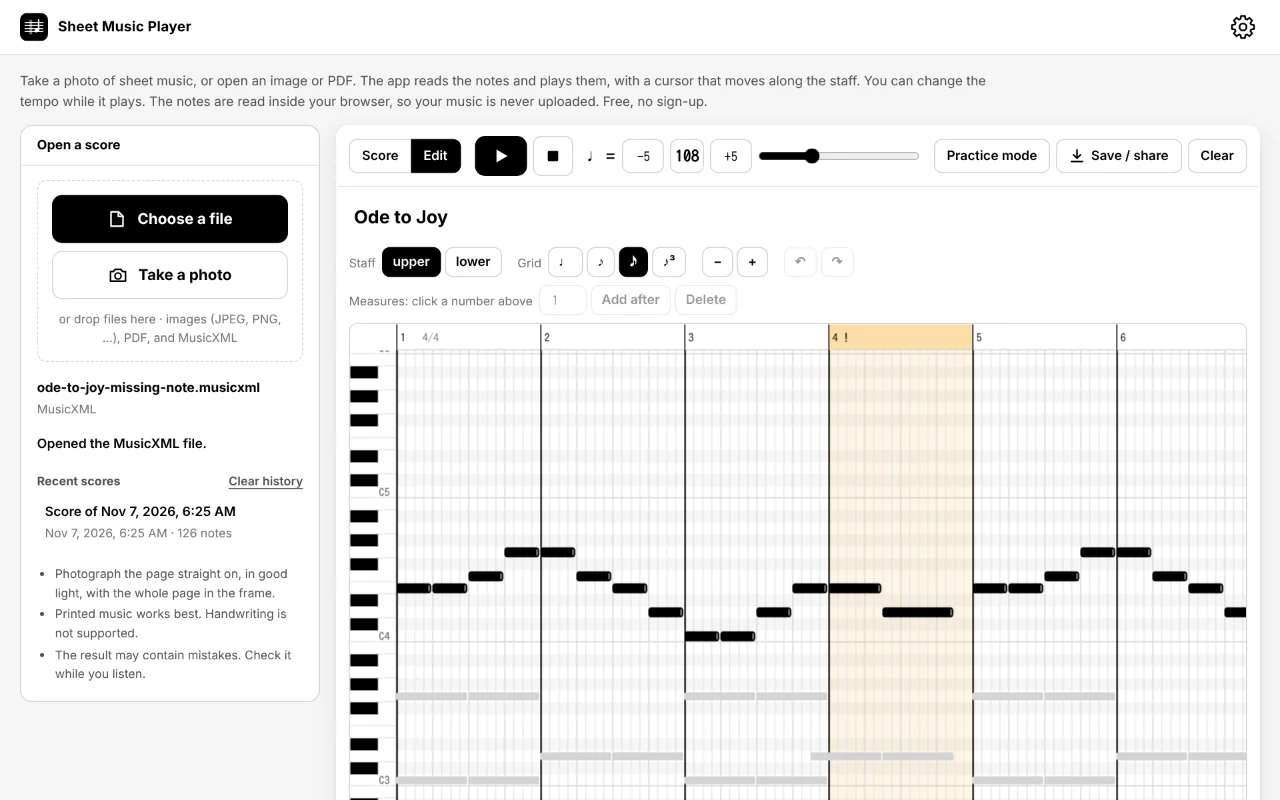
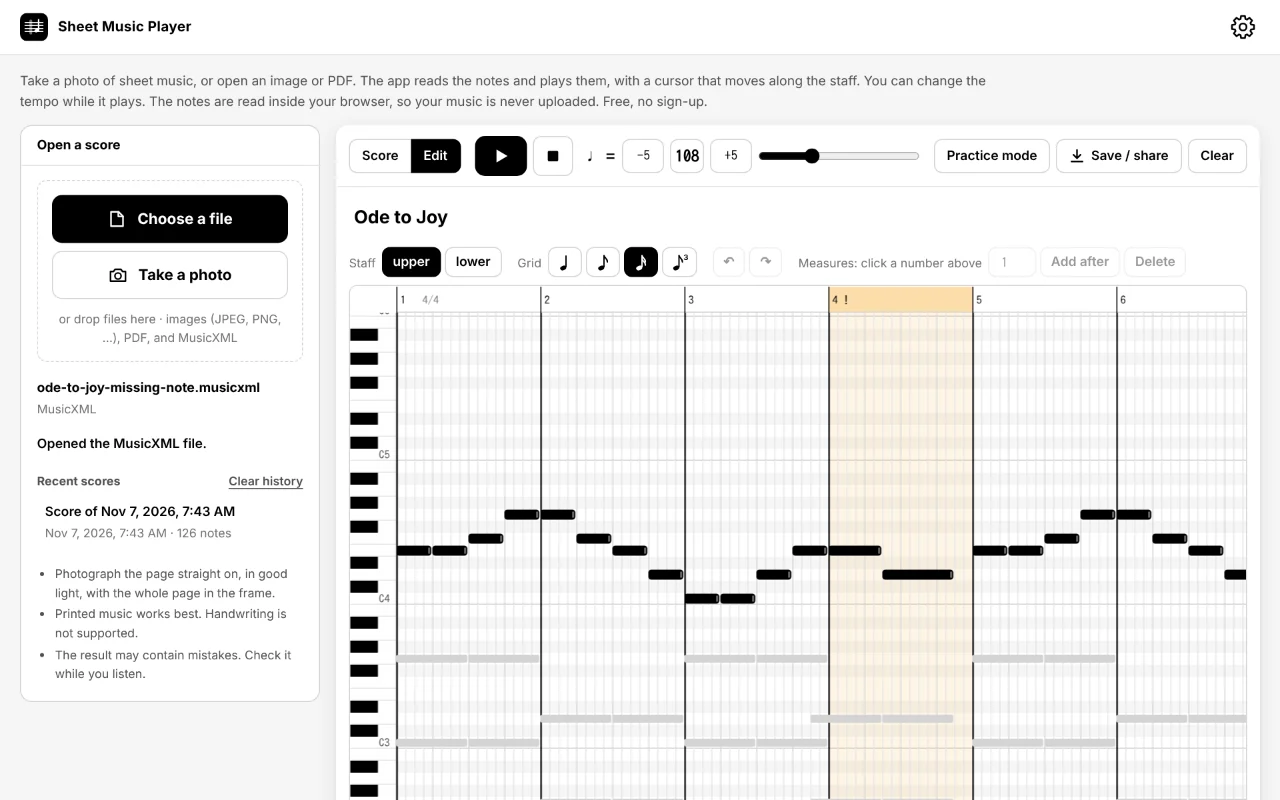
編集画面: 移調に合わせて表示・再生、スクロールとピンチ、小節の選択解除、マス目のアイコン (#21)
* スマホでは再生・停止の行だけを固定し、再生中も自由にスクロールできるようにする

- スマホ（幅 900px 以下・高さ 520px 以下）では、上部のバー・テンポ・練習モードなどはスクロールで流し、再生・停止の行だけを画面上端に固定する（PC は今までどおり 1 行のプレーヤーを固定）
- 再生中に利用者がスクロール（タッチ・ホイール・PageUp/PageDown/End・スクロールバー）したら、カーソルへの自動スクロールを止める。カーソルの行が画面に戻ってきたとき、再生ボタンを押したとき、音符をタップしたときに追従を再開
- スマホでは読み取り（MusicXML を開いたときも）が終わったら、再生ボタンの行が画面の最上部に来るようにスムーススクロール

Claude-Session: https://claude.ai/code/session_01FBcjAeARNG5Ni7mJwkqURV

* 編集モードのマス目のアイコンを SVG にする（16分音符の文字がスマホで 8分音符に化けていた）

U+1D161（16分音符）は多くのスマホのフォントになく、太い 8分音符で表示されていた。
4分・8分・16分・3連 8分を同じ大きさの SVG で描き、ガイドの編集画面の写真も撮り直した。

Claude-Session: https://claude.ai/code/session_01FBcjAeARNG5Ni7mJwkqURV

* 編集画面: 移調に合わせて表示・再生、指・マウスでのスクロールとピンチ、小節の選択をほかの所のタップで外す

- 編集画面も移調した高さで音符を表示・再生する（データは移調前のまま。表示は「元の高さ＋移調」、入力は移調分を引いて書き込む）。移調中は「移調（+2）して表示中」と出す。書き出しで移調が二重にかかっていたのを防ぐ（source() が移調を足す）
- タッチ: 空いている所をドラッグでスクロール（縦横）、2 本指のピンチで横方向に拡大・縮小、長押ししてからドラッグでまとめて選択
- マウス: ホイールでスクロール（Shift で横）、Ctrl＋ホイール・トラックパッドのピンチで拡大・縮小（キーボードの + − も）。拡大・縮小の −／+ ボタンをなくす
- 小節を選んだあと、ほかの所（音符の場所・鍵盤・ページのほかの部分）をタップすると選択を外す。再生ボタンと練習モードの操作では外さない（選んだ小節から再生するため）
- 使い方ガイド・読み取りミスの直し方の記事、編集画面の写真、CLAUDE.md を合わせて直す

Claude-Session: https://claude.ai/code/session_01FBcjAeARNG5Ni7mJwkqURV

---------

diff --git a/public/sheetmusicplayer/index.html b/public/sheetmusicplayer/index.html
@@ -254,6 +254,8 @@
     .ed-group { display: flex; flex-wrap: wrap; gap: 4px; align-items: center; }
     .ed-label { font-size: 12px; color: var(--subtle); margin-right: 2px; }
     .ed-bar .chip { height: 30px; padding: 0 10px; }
+    .ed-bar .chip:has(svg.note-ic) { padding: 0 7px; min-width: 34px; }
+    .ed-bar .chip svg.note-ic { width: auto; height: 18px; }
     .ed-bar .chip[aria-pressed="true"] { background: var(--ink); border-color: var(--ink); color: var(--paper); }
     .ed-count { width: 3.6em; height: 30px; border: 1px solid var(--line-strong); border-radius: var(--radius); background: var(--paper); color: var(--ink); font-family: var(--mono); text-align: center; }
     .ed-count:disabled { opacity: .4; }
@@ -261,6 +263,7 @@
     .ed-scroll:focus-visible { outline: 2px solid var(--ink); outline-offset: 1px; }
     .ed-canvas { position: sticky; top: 0; left: 0; display: block; touch-action: none; }
     .ed-space { pointer-events: none; }
+    .ed-tr { font-size: 12px; font-weight: 600; color: var(--cursor); }
     .ed-hint { margin: 0; font-size: 12px; color: var(--subtle); }
     .ed-hint b { color: var(--muted); font-weight: 600; }
 
@@ -602,15 +605,14 @@
           "mode.score": "Score",
           "mode.edit": "Edit",
           "ed.area": "Note editor. Drag a note to move it, drag its right edge to change its length.",
-          "ed.hint": "<b>Drag</b> a note to move it (up/down: pitch, left/right: timing) · drag its <b>right edge</b> to change the length · <b>click</b> an empty spot to add a note · <b>right-click</b> or <b>Delete</b> to remove · <b>drag</b> on empty space to select several · <b>↑↓</b> pitch (Shift: octave) · <b>←→</b> move · <b>Ctrl+Z</b> undo. Click a measure number to add or delete measures. Measures marked <b>!</b> did not add up when read; check them first.",
+          "ed.hint": "<b>Drag</b> a note to move it (up/down: pitch, left/right: timing) · drag its <b>right edge</b> to change the length · <b>click</b> an empty spot to add a note · <b>right-click</b> or <b>Delete</b> to remove · <b>drag</b> on empty space to select several · <b>↑↓</b> pitch (Shift: octave) · <b>←→</b> move · <b>Ctrl+Z</b> undo · <b>wheel</b> scroll (Shift: sideways), <b>Ctrl+wheel</b> or <b>+ −</b> zoom. On a touch screen: <b>drag</b> an empty spot to scroll, <b>pinch</b> to zoom, <b>hold</b> then drag to select several. Tap a measure number to add or delete measures (tap anywhere else to deselect it). Measures marked <b>!</b> did not add up when read; check them first.",
           "ed.track": "Staff",
           "ed.grid": "Grid",
           "ed.grid.24": "Quarter notes",
           "ed.grid.12": "Eighth notes",
           "ed.grid.6": "Sixteenth notes",
           "ed.grid.8": "Eighth-note triplets",
-          "ed.zoomIn": "Zoom in",
-          "ed.zoomOut": "Zoom out",
+          "ed.transposed": "Shown transposed ({n})",
           "ed.undo": "Undo",
           "ed.redo": "Redo",
           "ed.measPick": "Measures: click a number above",
@@ -754,15 +756,14 @@
           "mode.score": "楽譜",
           "mode.edit": "編集",
           "ed.area": "音符の編集。音符をドラッグで移動、右端をドラッグで長さを変更。",
-          "ed.hint": "音符を<b>ドラッグ</b>で移動（上下で音の高さ、左右でタイミング）・<b>右端をドラッグ</b>で長さ・空いている所を<b>クリック</b>で追加・<b>右クリック</b>か <b>Delete</b> で削除・空いている所を<b>ドラッグ</b>でまとめて選択・<b>↑↓</b> 音の高さ（Shift でオクターブ）・<b>←→</b> 移動・<b>Ctrl+Z</b> 元に戻す。上の小節番号をクリックすると、小節の追加・削除ができます。<b>!</b> の付いた小節は、読み取ったときに拍の合計が合わなかった小節です。先に確かめてください。",
+          "ed.hint": "音符を<b>ドラッグ</b>で移動（上下で音の高さ、左右でタイミング）・<b>右端をドラッグ</b>で長さ・空いている所を<b>クリック</b>で追加・<b>右クリック</b>か <b>Delete</b> で削除・空いている所を<b>ドラッグ</b>でまとめて選択・<b>↑↓</b> 音の高さ（Shift でオクターブ）・<b>←→</b> 移動・<b>Ctrl+Z</b> 元に戻す・<b>ホイール</b>でスクロール（Shift で横）、<b>Ctrl+ホイール</b>か <b>+ −</b> で拡大・縮小。タッチ操作では、空いている所を<b>ドラッグ</b>でスクロール、<b>ピンチ</b>で拡大・縮小、<b>長押し</b>してからドラッグでまとめて選択。上の小節番号をタップすると、小節の追加・削除ができます（ほかの所をタップすると選択を外します）。<b>!</b> の付いた小節は、読み取ったときに拍の合計が合わなかった小節です。先に確かめてください。",
           "ed.track": "段",
           "ed.grid": "マス目",
           "ed.grid.24": "4分音符",
           "ed.grid.12": "8分音符",
           "ed.grid.6": "16分音符",
           "ed.grid.8": "3連8分音符",
-          "ed.zoomIn": "拡大",
-          "ed.zoomOut": "縮小",
+          "ed.transposed": "移調（{n}）して表示中",
           "ed.undo": "元に戻す",
           "ed.redo": "やり直す",
           "ed.measPick": "小節：上の番号をクリック",
@@ -2120,8 +2121,10 @@
           showMode("edit");
           if (!editor) {
             const E = await importApp("editor.mjs");
-            editor = E.createEditor($("editWrap"), { model: model, t: t, trackName: trackName, preview: preview, onChange: onModelChange });
-          }
+            // The editor shows and plays the notes transposed (the model keeps them as written).
+            // Taps on the player keep a selected measure (Play starts from it)
+            editor = E.createEditor($("editWrap"), { model: model, t: t, trackName: trackName, preview: preview, onChange: onModelChange, transpose: state.transpose || 0, keepSelectionIn: "#playerBar, #practice" });
+          } else editor.setTranspose(state.transpose || 0);
           editor.focus();
         } else {
           showMode("score");
@@ -2140,13 +2143,13 @@
       let metronome = false, countIn = false, beats = [], countBeats = [], countIdx = 0;
       // Watchdog: the audio clock at the last tick, and when it last moved (performance.now())
       let clockT = 0, clockMoved = 0;
-      // What is played: the score's timeline, or (in Edit) the notes being edited
+      // What is played: the score's timeline, or (in Edit) the notes being edited, moved by the transposition
       let playSrc = timeline;
       function source() {
         if (!(mode === "edit" && model)) return timeline;
-        const keys = model.tracks.map((tr) => tr.part + ":" + tr.staff);
+        const keys = model.tracks.map((tr) => tr.part + ":" + tr.staff), tr = state.transpose || 0;
         return {
-          events: SM.modelEvents(model).map((e) => [e[0], e[1], e[2], keys[e[3]]]),
+          events: SM.modelEvents(model).map((e) => [e[0], e[1], e[2] + tr, keys[e[3]]]),
           endQ: SM.modelEnd(model) / SM.PPQ,
           measures: model.measures.map((m) => ({ q: m.start / SM.PPQ, len: m.len / SM.PPQ, beats: m.beats, beatType: m.beatType })),
           tracks: model.tracks.map((tr, i) => ({ key: keys[i], name: trackName(i) })),
@@ -2333,7 +2336,13 @@
         const was = playing, q = playing ? currentQ() : posQ;
         stop();
         state.transpose = n; saveState(); renderTranspose();
-        if (mode === "edit") { staleScore = true; return; }
+        if (mode === "edit") {
+          staleScore = true;
+          if (editor) editor.setTranspose(n);
+          playSrc = source();
+          if (was) { posQ = q; start(); }
+          return;
+        }
         busy = true;
         try { await showCurrent(); setPosition(q); }
         catch (e) { showError(t("err.render")); console.error(e); }
@@ -2387,13 +2396,9 @@
         SM = SM || await importApp("score-model.mjs");
         return SM.withTitle(shownXml(), state.title);
       }
-      // The notes as they are heard: the score (transposed), or in Edit the edited notes moved by the transposition
+      // The notes as they are heard: the score (transposed), or in Edit the edited notes (source() transposes them)
       async function exportNotes() {
-        if (mode === "edit" && model) {
-          const s = source();
-          s.events = s.events.map((e) => [e[0], e[1], e[2] + (state.transpose || 0), e[3]]);
-          return s;
-        }
+        if (mode === "edit" && model) return source();
         if (staleScore) await showCurrent();
         return timeline;
       }

diff --git a/public/sheetmusicplayer/ja/index.html b/public/sheetmusicplayer/ja/index.html
@@ -256,6 +256,8 @@
     .ed-group { display: flex; flex-wrap: wrap; gap: 4px; align-items: center; }
     .ed-label { font-size: 12px; color: var(--subtle); margin-right: 2px; }
     .ed-bar .chip { height: 30px; padding: 0 10px; }
+    .ed-bar .chip:has(svg.note-ic) { padding: 0 7px; min-width: 34px; }
+    .ed-bar .chip svg.note-ic { width: auto; height: 18px; }
     .ed-bar .chip[aria-pressed="true"] { background: var(--ink); border-color: var(--ink); color: var(--paper); }
     .ed-count { width: 3.6em; height: 30px; border: 1px solid var(--line-strong); border-radius: var(--radius); background: var(--paper); color: var(--ink); font-family: var(--mono); text-align: center; }
     .ed-count:disabled { opacity: .4; }
@@ -263,6 +265,7 @@
     .ed-scroll:focus-visible { outline: 2px solid var(--ink); outline-offset: 1px; }
     .ed-canvas { position: sticky; top: 0; left: 0; display: block; touch-action: none; }
     .ed-space { pointer-events: none; }
+    .ed-tr { font-size: 12px; font-weight: 600; color: var(--cursor); }
     .ed-hint { margin: 0; font-size: 12px; color: var(--subtle); }
     .ed-hint b { color: var(--muted); font-weight: 600; }
 
@@ -594,15 +597,14 @@
           "mode.score": "Score",
           "mode.edit": "Edit",
           "ed.area": "Note editor. Drag a note to move it, drag its right edge to change its length.",
-          "ed.hint": "<b>Drag</b> a note to move it (up/down: pitch, left/right: timing) · drag its <b>right edge</b> to change the length · <b>click</b> an empty spot to add a note · <b>right-click</b> or <b>Delete</b> to remove · <b>drag</b> on empty space to select several · <b>↑↓</b> pitch (Shift: octave) · <b>←→</b> move · <b>Ctrl+Z</b> undo. Click a measure number to add or delete measures. Measures marked <b>!</b> did not add up when read; check them first.",
+          "ed.hint": "<b>Drag</b> a note to move it (up/down: pitch, left/right: timing) · drag its <b>right edge</b> to change the length · <b>click</b> an empty spot to add a note · <b>right-click</b> or <b>Delete</b> to remove · <b>drag</b> on empty space to select several · <b>↑↓</b> pitch (Shift: octave) · <b>←→</b> move · <b>Ctrl+Z</b> undo · <b>wheel</b> scroll (Shift: sideways), <b>Ctrl+wheel</b> or <b>+ −</b> zoom. On a touch screen: <b>drag</b> an empty spot to scroll, <b>pinch</b> to zoom, <b>hold</b> then drag to select several. Tap a measure number to add or delete measures (tap anywhere else to deselect it). Measures marked <b>!</b> did not add up when read; check them first.",
           "ed.track": "Staff",
           "ed.grid": "Grid",
           "ed.grid.24": "Quarter notes",
           "ed.grid.12": "Eighth notes",
           "ed.grid.6": "Sixteenth notes",
           "ed.grid.8": "Eighth-note triplets",
-          "ed.zoomIn": "Zoom in",
-          "ed.zoomOut": "Zoom out",
+          "ed.transposed": "Shown transposed ({n})",
           "ed.undo": "Undo",
           "ed.redo": "Redo",
           "ed.measPick": "Measures: click a number above",
@@ -746,15 +748,14 @@
           "mode.score": "楽譜",
           "mode.edit": "編集",
           "ed.area": "音符の編集。音符をドラッグで移動、右端をドラッグで長さを変更。",
-          "ed.hint": "音符を<b>ドラッグ</b>で移動（上下で音の高さ、左右でタイミング）・<b>右端をドラッグ</b>で長さ・空いている所を<b>クリック</b>で追加・<b>右クリック</b>か <b>Delete</b> で削除・空いている所を<b>ドラッグ</b>でまとめて選択・<b>↑↓</b> 音の高さ（Shift でオクターブ）・<b>←→</b> 移動・<b>Ctrl+Z</b> 元に戻す。上の小節番号をクリックすると、小節の追加・削除ができます。<b>!</b> の付いた小節は、読み取ったときに拍の合計が合わなかった小節です。先に確かめてください。",
+          "ed.hint": "音符を<b>ドラッグ</b>で移動（上下で音の高さ、左右でタイミング）・<b>右端をドラッグ</b>で長さ・空いている所を<b>クリック</b>で追加・<b>右クリック</b>か <b>Delete</b> で削除・空いている所を<b>ドラッグ</b>でまとめて選択・<b>↑↓</b> 音の高さ（Shift でオクターブ）・<b>←→</b> 移動・<b>Ctrl+Z</b> 元に戻す・<b>ホイール</b>でスクロール（Shift で横）、<b>Ctrl+ホイール</b>か <b>+ −</b> で拡大・縮小。タッチ操作では、空いている所を<b>ドラッグ</b>でスクロール、<b>ピンチ</b>で拡大・縮小、<b>長押し</b>してからドラッグでまとめて選択。上の小節番号をタップすると、小節の追加・削除ができます（ほかの所をタップすると選択を外します）。<b>!</b> の付いた小節は、読み取ったときに拍の合計が合わなかった小節です。先に確かめてください。",
           "ed.track": "段",
           "ed.grid": "マス目",
           "ed.grid.24": "4分音符",
           "ed.grid.12": "8分音符",
           "ed.grid.6": "16分音符",
           "ed.grid.8": "3連8分音符",
-          "ed.zoomIn": "拡大",
-          "ed.zoomOut": "縮小",
+          "ed.transposed": "移調（{n}）して表示中",
           "ed.undo": "元に戻す",
           "ed.redo": "やり直す",
           "ed.measPick": "小節：上の番号をクリック",
@@ -2112,8 +2113,10 @@
           showMode("edit");
           if (!editor) {
             const E = await importApp("editor.mjs");
-            editor = E.createEditor($("editWrap"), { model: model, t: t, trackName: trackName, preview: preview, onChange: onModelChange });
-          }
+            // The editor shows and plays the notes transposed (the model keeps them as written).
+            // Taps on the player keep a selected measure (Play starts from it)
+            editor = E.createEditor($("editWrap"), { model: model, t: t, trackName: trackName, preview: preview, onChange: onModelChange, transpose: state.transpose || 0, keepSelectionIn: "#playerBar, #practice" });
+          } else editor.setTranspose(state.transpose || 0);
           editor.focus();
         } else {
           showMode("score");
@@ -2132,13 +2135,13 @@
       let metronome = false, countIn = false, beats = [], countBeats = [], countIdx = 0;
       // Watchdog: the audio clock at the last tick, and when it last moved (performance.now())
       let clockT = 0, clockMoved = 0;
-      // What is played: the score's timeline, or (in Edit) the notes being edited
+      // What is played: the score's timeline, or (in Edit) the notes being edited, moved by the transposition
       let playSrc = timeline;
       function source() {
         if (!(mode === "edit" && model)) return timeline;
-        const keys = model.tracks.map((tr) => tr.part + ":" + tr.staff);
+        const keys = model.tracks.map((tr) => tr.part + ":" + tr.staff), tr = state.transpose || 0;
         return {
-          events: SM.modelEvents(model).map((e) => [e[0], e[1], e[2], keys[e[3]]]),
+          events: SM.modelEvents(model).map((e) => [e[0], e[1], e[2] + tr, keys[e[3]]]),
           endQ: SM.modelEnd(model) / SM.PPQ,
           measures: model.measures.map((m) => ({ q: m.start / SM.PPQ, len: m.len / SM.PPQ, beats: m.beats, beatType: m.beatType })),
           tracks: model.tracks.map((tr, i) => ({ key: keys[i], name: trackName(i) })),
@@ -2325,7 +2328,13 @@
         const was = playing, q = playing ? currentQ() : posQ;
         stop();
         state.transpose = n; saveState(); renderTranspose();
-        if (mode === "edit") { staleScore = true; return; }
+        if (mode === "edit") {
+          staleScore = true;
+          if (editor) editor.setTranspose(n);
+          playSrc = source();
+          if (was) { posQ = q; start(); }
+          return;
+        }
         busy = true;
         try { await showCurrent(); setPosition(q); }
         catch (e) { showError(t("err.render")); console.error(e); }
@@ -2379,13 +2388,9 @@
         SM = SM || await importApp("score-model.mjs");
         return SM.withTitle(shownXml(), state.title);
       }
-      // The notes as they are heard: the score (transposed), or in Edit the edited notes moved by the transposition
+      // The notes as they are heard: the score (transposed), or in Edit the edited notes (source() transposes them)
       async function exportNotes() {
-        if (mode === "edit" && model) {
-          const s = source();
-          s.events = s.events.map((e) => [e[0], e[1], e[2] + (state.transpose || 0), e[3]]);
-          return s;
-        }
+        if (mode === "edit" && model) return source();
         if (staleScore) await showCurrent();
         return timeline;
       }

diff --git a/public/sheetmusicplayer/ja/guide/index.html b/public/sheetmusicplayer/ja/guide/index.html
@@ -264,7 +264,7 @@
   <li><b>メトロノーム</b>：拍ごとにクリック音を鳴らします。小節の 1 拍目は高い音です。6/8・9/8・12/8 拍子では付点4分音符ごとに鳴ります。</li>
   <li><b>カウントイン</b>：再生の前に 1 小節ぶんクリック音を鳴らすので、タイミングを合わせて入れます。</li>
   <li><b>パート</b>（ピアノや合唱など、段が 2 つ以上ある楽譜）：パートをタップするたびに、通常 → <b>強調</b>（ほかのパートを小さく）→ <b>消音</b> → 通常 と切り替わります。自分のパートをはっきり聴いたり、ほかのパートだけ鳴らして自分のパートを弾いたり歌ったりするのに使えます。</li>
-  <li><b>移調</b>：−／+ で半音ずつ、上下 1 オクターブまで移調できます。調号も変わり、♯・♭ の付け方も新しい調に合わせます。編集画面には移調する前の音で表示します。</li>
+  <li><b>移調</b>：−／+ で半音ずつ、上下 1 オクターブまで移調できます。調号も変わり、♯・♭ の付け方も新しい調に合わせます。編集画面も移調した高さで表示・再生します。紙の楽譜と見比べるときは ±0 に戻してください。</li>
 </ul>
 
 <h2 id="edit">6. 間違いを直す</h2>

diff --git a/public/sheetmusicplayer/ja/fix-errors/index.html b/public/sheetmusicplayer/ja/fix-errors/index.html
@@ -228,7 +228,8 @@
 <tr><th scope="row">音符を削除する</th><td>右クリック。または選んで <kbd>Delete</kbd></td></tr>
 <tr><th scope="row">まとめて選ぶ</th><td>空いている所をドラッグして囲み、まとめて移動・削除</td></tr>
 <tr><th scope="row">マス目</th><td>4分音符・8分音符・16分音符・3連8分音符から選ぶ</td></tr>
-<tr><th scope="row">小節を追加・削除する</th><td>上の小節番号をクリックし、数を入れて「後ろに追加」、または「削除」</td></tr>
+<tr><th scope="row">小節を追加・削除する</th><td>上の小節番号をクリックし、数を入れて「後ろに追加」、または「削除」。ほかの所をクリックすると小節の選択が外れる</td></tr>
+<tr><th scope="row">スクロール・拡大縮小</th><td>マウス：ホイールでスクロール（<kbd>Shift</kbd> で横）、<kbd>Ctrl</kbd>＋ホイールで横方向に拡大・縮小。タッチ操作：空いている所をドラッグでスクロール、ピンチで拡大・縮小。まとめて選ぶときは少し長押ししてからドラッグ</td></tr>
 <tr><th scope="row">元に戻す・やり直す</th><td>矢印のボタン。または <kbd>Ctrl</kbd>+<kbd>Z</kbd></td></tr>
 </tbody>
 </table>

diff --git a/public/sheetmusicplayer/guide/index.html b/public/sheetmusicplayer/guide/index.html
@@ -264,7 +264,7 @@
   <li><b>Metronome</b>: a click on every beat, higher on the first beat of each measure. In 6/8, 9/8, and 12/8 it clicks on each dotted quarter.</li>
   <li><b>Count-in</b>: one measure of clicks before the music starts, so you can come in on time.</li>
   <li><b>Parts</b> (for scores with more than one staff, such as piano or choir): tap a part to change it from normal to <b>louder</b> (the other parts are played softly) to <b>muted</b>, and back. Use it to hear your own part clearly, or to play or sing it yourself while the app plays the others.</li>
-  <li><b>Transpose</b>: − and + move the music down or up a semitone at a time, up to an octave either way. The key signature changes with it, and the notes are spelled to suit the new key. The editor still shows the notes as written.</li>
+  <li><b>Transpose</b>: − and + move the music down or up a semitone at a time, up to an octave either way. The key signature changes with it, and the notes are spelled to suit the new key. The editor shows and plays the notes transposed too; set it back to ±0 to compare them with the paper.</li>
 </ul>
 
 <h2 id="edit">6. Fix mistakes</h2>

diff --git a/public/sheetmusicplayer/fix-errors/index.html b/public/sheetmusicplayer/fix-errors/index.html
@@ -228,7 +228,8 @@
 <tr><th scope="row">Delete a note</th><td>Right-click it, or select it and press <kbd>Delete</kbd></td></tr>
 <tr><th scope="row">Select several</th><td>Drag across an empty area, then move or delete them together</td></tr>
 <tr><th scope="row">Snap to</th><td>Grid: quarter, eighth, sixteenth notes, or eighth-note triplets</td></tr>
-<tr><th scope="row">Add or delete measures</th><td>Click a measure number at the top, then “Add after” (with the number of measures) or “Delete”</td></tr>
+<tr><th scope="row">Add or delete measures</th><td>Click a measure number at the top, then “Add after” (with the number of measures) or “Delete”. Click anywhere else to deselect the measure</td></tr>
+<tr><th scope="row">Scroll and zoom</th><td>Mouse: the wheel scrolls (<kbd>Shift</kbd>: sideways), <kbd>Ctrl</kbd> + wheel zooms in time. Touch screen: drag an empty spot to scroll, pinch to zoom, and hold a moment before dragging to select several</td></tr>
 <tr><th scope="row">Undo / redo</th><td>The arrow buttons, or <kbd>Ctrl</kbd>+<kbd>Z</kbd></td></tr>
 </tbody>
 </table>

diff --git a/CLAUDE.md b/CLAUDE.md
@@ -44,7 +44,7 @@
 - Service Worker がエンジンのキャッシュからワーカーのスクリプト（Tesseract.js）を返すときは COEP ヘッダーを付ける（`sw.js` の `withWorkerHeaders`）。付けないと cross-origin isolation のページではワーカーが起動せず、テンポを読めない。
 - 開いている楽譜は `localStorage` の `sheetmusicplayer-state`、最近の楽譜（最大 10 曲）は IndexedDB の `sheetmusicplayer-history` に保存する。どちらも読み込んだ値は `validScore` で検証してから使う。新しいファイルを開いたらテンポは楽譜の値に、移調は 0 に戻す。タイトルは MusicXML の `work-title`／`movement-title`、なければ読み込んだ日時（タイトルの OCR はしない）。
 - 再生ボタンは共通ルール（ベースライン）どおり、▶／❚❚ のアイコンだけで切り替える一時停止と、■（停止して最初に戻る。ループ中はループの最初）。
-- 移調: `state.xml` は移調前のまま持ち、表示・再生・書き出しは `transposeXml` を通す。編集画面は移調前の音を表示・再生する。
+- 移調: `state.xml` は移調前のまま持ち、表示・再生・書き出しは `transposeXml` を通す。編集画面は移調した高さで表示・再生する（`model` は移調前のまま。`editor.mjs` は「表示の高さ＝model の高さ＋移調」で描き、入力は移調分を引いて model に書く。再生は `source()` が移調を足す）。
 - 書き出し（`export.mjs`）: MIDI と MP3。MP3 は聞こえているとおり（テンポ・パートの強調／消音・移調）に、アプリの音源を OfflineAudioContext で 20 秒ずつ作って lamejs（`vendor/lame.min.js`、LGPL-3.0、`build-engine.py` が配置）で変換する。共有は Web Share で URL と MusicXML を送り、ファイルを添付できないブラウザでは保存してから URL だけ共有（またはコピー）する。
 - 外部ホストを足したら `public/_headers` の CSP と、プライバシーの説明（`scripts/pages/privacy.mjs`、アプリ内の `privacy.body`、README）を同じ PR で直す。
 - トップページ（https://ktkwmr.com/）のアプリ一覧に、このアプリの名前・説明・特徴を載せる（`ktkwmr/ktkwmr.com` の `scripts/pages/home.mjs` の `APPS`。アイコンは `ICON`。`public/robots.txt` の `Sitemap:` 行も）。ガイド記事を追加・改名・削除したとき、アプリ名・説明・アイコンを変えたときは、`ktkwmr/ktkwmr.com` に `home.mjs` を直す PR を別に出す（ベースライン §2-16）。
